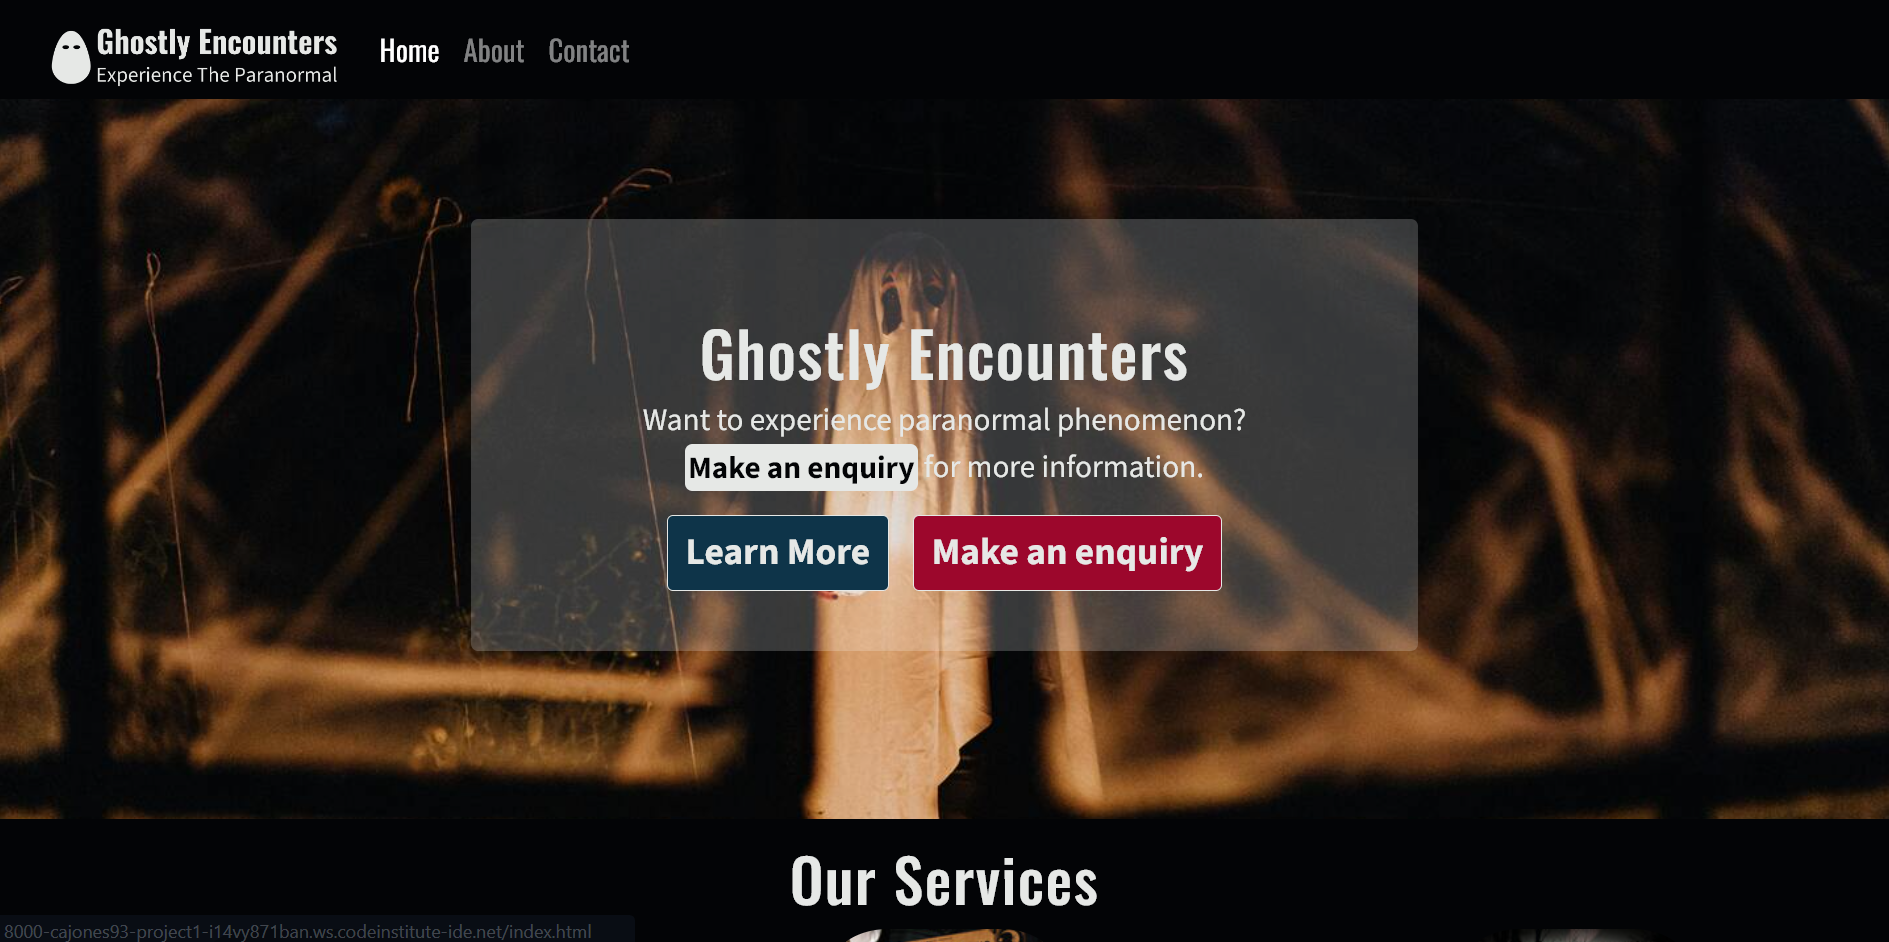
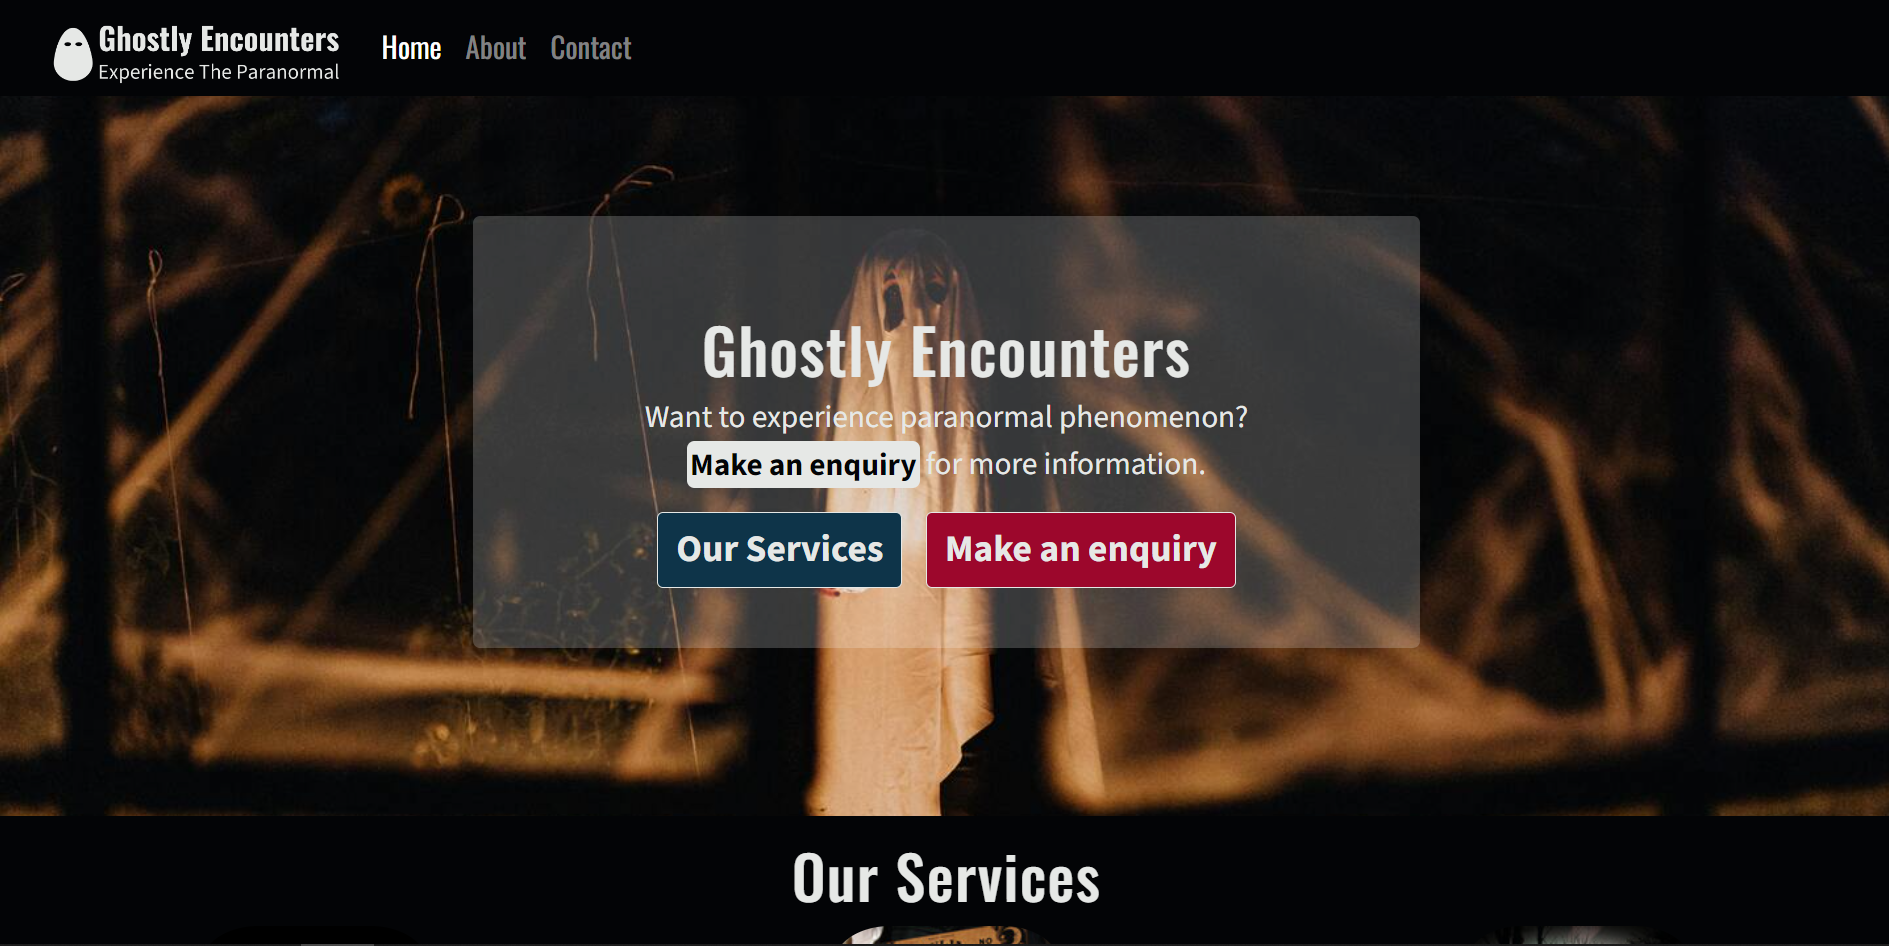
Changed learn more to our services, updated readme screenshots

diff --git a/README.md b/README.md
@@ -63,7 +63,7 @@ This is the colour scheme I used for this project. It was generated at [coolors.
 ### Navigation
 The website consists of three sections (Home, About, Contact) with navigation elements that link to each.
 When viewed on a mobile device, the navigation elements are condensed into a collapsed list.
-A user can navigate to the about page by clicking the "learn more" button on the homepage.
+A user can navigate to the about page by clicking the "our services" button on the homepage.
 A user can navigate to the contact page by clicking the "Make an enquiry" button on the homepage.
 After submitting the contact form, a user can return to the homepage by clicking the "Return to home" button.
 
@@ -77,7 +77,7 @@ The footer on every page contains links to social media sites Facebook, Youtube,
 ![Footer](assets/images/readme/footer.png)
 
 ### Home Page
-The home page shows a large callout section which grabs the users attention. It allows a user to click the "Learn More" or "Make an enquiry" buttons to go to the "About" and "Contact" pages.
+The home page shows a large callout section which grabs the users attention. It allows a user to click the "Our Services" or "Make an enquiry" buttons to go to the "About" and "Contact" pages.
 When a user scrolls down, they can see some brief information about the services offered and some testimonials from previous customers.
 
 ![Home Page](assets/images/readme/homepage.png)
@@ -147,10 +147,10 @@ User story testing
 Number | User Story |  Test | Pass
 --- | --- | --- | :---:
 1 | A user wants to browse available paranormal experiences so that I can see the different options available. | The user scrolls down to see the services offered | &check;
-2 | A user wants to view detailed information about the paranormal experiences so that I can clearly understand what is included in each service. | The user clicks the learn more button or the about navigation link. They then scroll down to view the detailed information. | &check;  
+2 | A user wants to view detailed information about the paranormal experiences so that I can clearly understand what is included in each service. | The user clicks the Our Services button or the about navigation link. They then scroll down to view the detailed information. | &check;  
 3 | A user wants to submit a contact form so that I can reach out to the organiser for more information or to book an experience. | The user clicks the make an enquiry button or the contact navigation link and fills out the contact form. | &check;
-4 | A user wants to get directions to the haunted house locations where paranormal experiences take place. | The user clicks the learn more button or the learn more navigation link and scrolls down to the haunted house section. The user can see an interactive map and can click the directions arrow. | &check;
-5 | A user wants to read an FAQ section to quickly find answers to common questions. | The user clicks the learn more button or the about navigation link and scrolls down to the FAQ section. | &check;
+4 | A user wants to get directions to the haunted house locations where paranormal experiences take place. | The user clicks the Our Services button or the Our Services navigation link and scrolls down to the haunted house section. The user can see an interactive map and can click the directions arrow. | &check;
+5 | A user wants to read an FAQ section to quickly find answers to common questions. | The user clicks the Our Services button or the about navigation link and scrolls down to the FAQ section. | &check;
 6 | A user wants to view social media links so that they can follow or share the page with others. | The user scrolls to the bottom of any page and clicks the social media icon. | &check;
 
 ### User stories testing screenshots
@@ -198,7 +198,7 @@ The project was deployed using GitHub pages. The steps to deploy using GitHub pa
 3. Select 'Pages' from the menu bar on the left of the page.
 4. Under 'Source' select the 'Branch' dropdown menu and select the main branch.
 5. Once selected, click the 'Save'.
-6. Deployment should be confirmed by a message on a green background saying "Your site is published at" followed by the web address.
+6. Deployment should be confirmed by a message saying "Your site is published at" followed by the web address.
 
 ## Credits
 List of used resources for your website (text, images, snippets of code, projects....)
